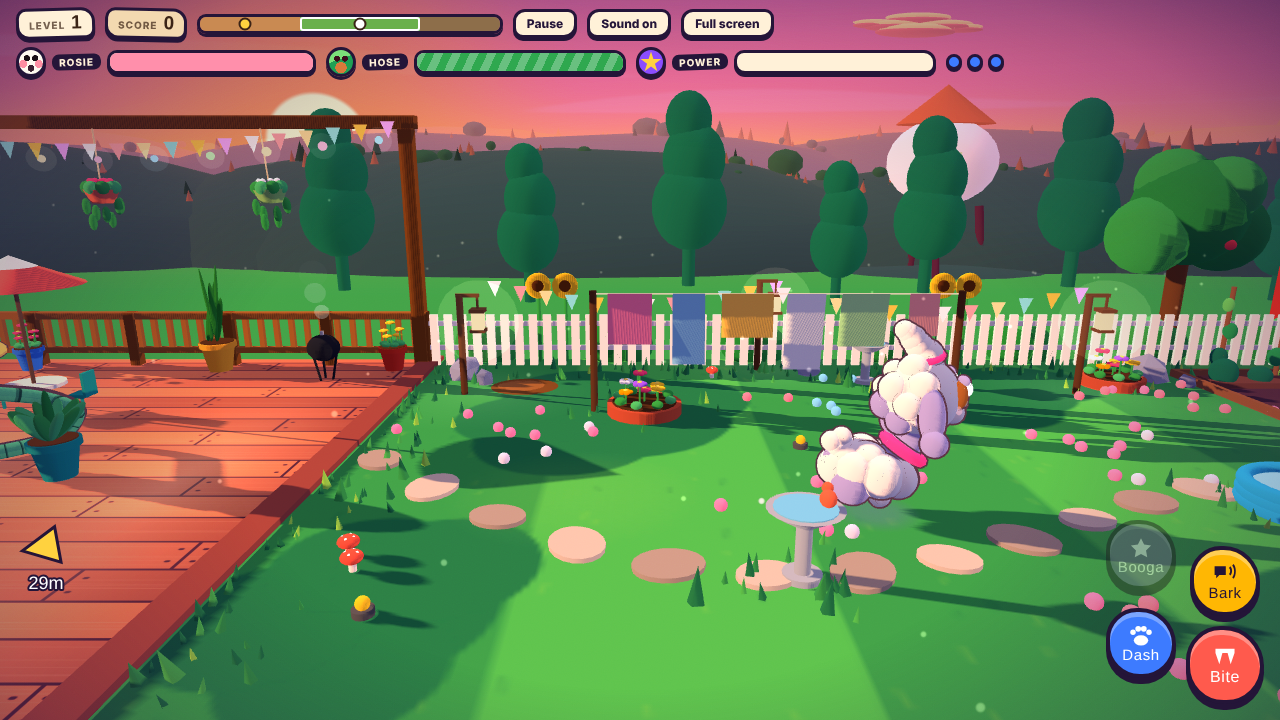
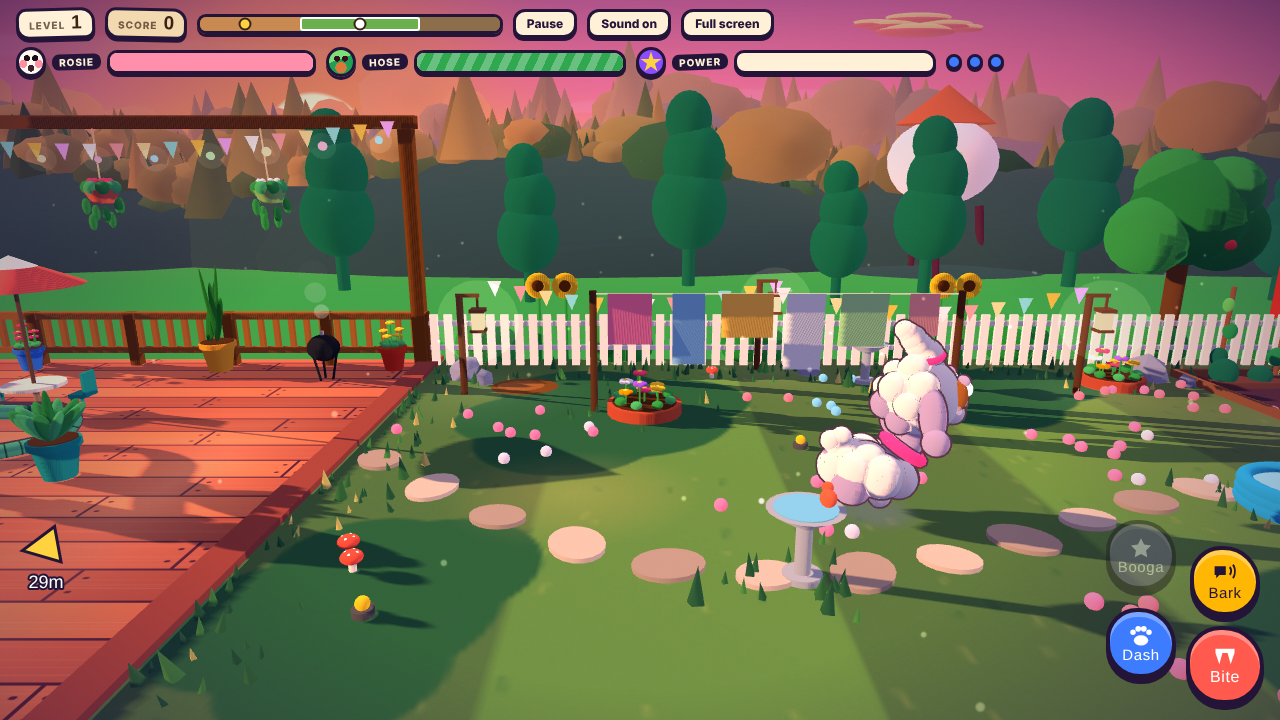
feat: sunset relight, forested ridges and Rosie on her hind legs
Builds design/art/art-direction-v3.md. Indigo to rose to amber sky with
a bigger low sun, warm key light against cool fill, softly stepped
shading from a 16-texel ramp, thinner warmer ink kept only on
characters, and an amber iris with a bounce highlight in Rosie's eyes.
She rears up on her hind legs for BOOGA TIME and drops the moment she
runs, bites, dashes or is hit.

From the user's reference photograph: the deck now takes long raking
shadows from the railing and posts with white-gold light pools cut
through deep planks. The back ridges became forested hillsides, about
1400 clustered conifer and broadleaf instances with bare slopes, uneven
crests and a warm rim where the sun catches them, in two instanced
meshes.

Warmed the lawn and Rosie's shade side after review: the doc froze the
lawn at bright mid-green, which fought the sunset and read as a flat
band, and her cold violet shade went grey under warm light.

535 draw calls in normal play, unchanged. Clouds baked to painted bands
paid for the extra trees.

Refs: design/art/art-direction-v3.md

Claude-Session: https://claude.ai/code/session_01JR8fsw3Uh5kViP8MJWMfnz

diff --git a/src/index.html b/src/index.html
@@ -1064,15 +1064,16 @@ flat(new THREE.PlaneGeometry(1320,GD),M('#ffffff',{map:ctex(512,512,1320/600,GD/
      const rr=Math.max(rx,ry),gr=g.createRadialGradient(0,0,0,0,0,rr);gr.addColorStop(0,c);gr.addColorStop(.5,'rgba(255,170,90,.34)');gr.addColorStop(1,'rgba(0,0,0,0)');
      g.save();g.globalAlpha=a;g.translate(x,y);g.scale(rx/rr,ry/rr);g.fillStyle=gr;g.beginPath();g.arc(0,0,rr,0,7);g.fill();g.restore();}});
  PT.wrapS=PT.wrapT=THREE.ClampToEdgeWrapping;
- const pl=flat(new THREE.PlaneGeometry(1320,GD),new THREE.MeshBasicMaterial({map:PT,transparent:true,opacity:.46,depthWrite:false,blending:THREE.AdditiveBlending}),340,.45,GZ);
+ const pl=flat(new THREE.PlaneGeometry(1320,GD),new THREE.MeshBasicMaterial({map:PT,transparent:true,opacity:.34,depthWrite:false,blending:THREE.AdditiveBlending}),340,.45,GZ);
  pl.receiveShadow=false;}
 /* lawn: one un-tiled painting. Mown stripes 260 wide, 7 clover patches, 20 soft sunlit dapples */
 flat(new THREE.PlaneGeometry(2400,GD),M('#ffffff',{map:ctex(512,512,1,1,g=>{const sx=512/2400,sz=512/GD;
-  for(let i=0;i<10;i++){g.fillStyle=i%2?'#55b85a':'#3f9a52';g.fillRect(i*260*sx,0,260*sx+1,512);}
-  for(let i=0;i<1400;i++){const x=r2()*512,y=r2()*512;g.strokeStyle=r2()<.5?'rgba(44,122,76,.22)':'rgba(159,220,92,.16)';g.lineWidth=1;g.beginPath();g.moveTo(x,y);g.lineTo(x+r2()*2-1,y-2-r2()*3);g.stroke();}
-  g.fillStyle='#2c7a4c';for(const [x,z,r] of [[1330,250,230],[1900,130,170],[2080,930,300],[1500,1180,210],[2700,330,190],[2850,1100,320],[1150,720,150]])
+  for(let i=0;i<10;i++){g.fillStyle=i%2?'#4e8f4b':'#3a7043';g.fillRect(i*260*sx,0,260*sx+1,512);}
+  {const wg=g.createLinearGradient(512,0,0,512);wg.addColorStop(0,'rgba(255,170,96,.30)');wg.addColorStop(.5,'rgba(255,150,90,.12)');wg.addColorStop(1,'rgba(60,40,96,.20)');g.fillStyle=wg;g.fillRect(0,0,512,512);}
+  for(let i=0;i<1400;i++){const x=r2()*512,y=r2()*512;g.strokeStyle=r2()<.5?'rgba(34,86,60,.26)':'rgba(214,206,116,.16)';g.lineWidth=1;g.beginPath();g.moveTo(x,y);g.lineTo(x+r2()*2-1,y-2-r2()*3);g.stroke();}
+  g.fillStyle='#2f5f40';for(const [x,z,r] of [[1330,250,230],[1900,130,170],[2080,930,300],[1500,1180,210],[2700,330,190],[2850,1100,320],[1150,720,150]])
     for(let k=0;k<5;k++){const a=k*1.257+r2(),q=k?r*.5:0,rr=k?r*(.45+r2()*.2):r*.7;g.beginPath();g.ellipse((x-1000+Math.cos(a)*q)*sx,(z+60+Math.sin(a)*q)*sz,rr*sx,rr*sz,0,0,7);g.fill();}
-  for(let i=0;i<20;i++){const x=r2()*512,y=r2()*512,r=14+r2()*22,gr=g.createRadialGradient(x,y,0,x,y,r);gr.addColorStop(0,'rgba(159,220,92,.12)');gr.addColorStop(.55,'rgba(159,220,92,.09)');gr.addColorStop(1,'rgba(159,220,92,0)');g.fillStyle=gr;g.fillRect(x-r,y-r,r*2,r*2);}})}),2200,0,GZ);
+  for(let i=0;i<20;i++){const x=r2()*512,y=r2()*512,r=14+r2()*22,gr=g.createRadialGradient(x,y,0,x,y,r);gr.addColorStop(0,'rgba(255,206,130,.20)');gr.addColorStop(.55,'rgba(255,190,118,.11)');gr.addColorStop(1,'rgba(255,190,118,0)');g.fillStyle=gr;g.fillRect(x-r,y-r,r*2,r*2);}})}),2200,0,GZ);
 const woodM=M('#7a4a24'),woodL=M('#9a6234'),whiteM2=M('#f7f3ea',{roughness:.7});
 box(scene,M('#8f4a42'),34,7,GD,1000,3.5,GZ);
 /* deck railing, pergola, string lights */
@@ -1111,31 +1112,38 @@ box(scene,M('#c0392b'),190,140,130,2710,70,-180);{const r=add(scene,G_K4,M('#5c3
      toward the sky. Trees are clustered with bare slopes between, and sit on the hump surface, so the
      treeline is uneven and the humps stop reading as humps. A private PRNG keeps r2() untouched. */
   let tseed=90210;const tr=()=>{tseed=(tseed*48271)%2147483647;return (tseed-1)/2147483646;};
-  const TCONE=new THREE.ConeGeometry(1,1,5),TBALL=new THREE.SphereGeometry(1,7,5);
-  for(const [z,c,y0,x0,x1,ra,rb,tc,bc,rc,nco,nbr] of [
-      [-1500,'#2e4a4e',-10,-2900,5700,900,1350,'#17332e','#26513f','#8a5a4e',300,170],
-      [-2600,'#5c5a86',-80,-3900,6700,1150,1700,'#3b4a63','#4e5a7c','#9a6a76',200,110],
-      [-4000,'#a37fae',0,-5200,8000,1300,1800,'#7f6c9e','#8f7aa8','#c08fa0',140,80]]){
+  /* ONE conifer mesh and ONE broadleaf mesh for all three ridges: two draw calls for the whole forest.
+     Per-instance colour carries both the haze gradient between layers and the warm sun rim on the
+     crests, so the depth is done with value instead of geometry. The ones() colour attribute is what
+     lets instanceColor through in r128 -- vertexColors without it would multiply by black. */
+  const ones=gg=>{gg.setAttribute('color',new THREE.BufferAttribute(new Float32Array(gg.attributes.position.count*3).fill(1),3));return gg;};
+  const TCONE=ones(new THREE.ConeGeometry(1,1,5)),TBALL=ones(new THREE.SphereGeometry(1,7,5));
+  const TCAP=900,BCAP=520,TIM=new THREE.InstancedMesh(TCONE,M('#ffffff',{vertexColors:true}),TCAP),BIM=new THREE.InstancedMesh(TBALL,M('#ffffff',{vertexColors:true}),BCAP);
+  const tcA=new THREE.Color(),tcB=new THREE.Color(),tcR=new THREE.Color('#ffae72'),tcT=new THREE.Color(),tob=new THREE.Object3D();
+  let nTree=0,nBush=0;
+  for(const [z,c,y0,x0,x1,ra,rb,tc,bc,rim,nclu,tsc] of [
+      [-1500,'#2e4a4e',-10,-2900,5700,900,1350,'#13302c','#2a5a42',.62,46,1],
+      [-2600,'#5c5a86',-80,-3900,6700,1150,1700,'#3a4a66','#55658a',.40,38,1.35],
+      [-4000,'#a37fae',0,-5200,8000,1300,1800,'#7e6c9e','#917fac',.22,30,1.75]]){
     const g=grp(scene),m=M(c),hills=[];
     for(let i=0;i<7;i++){const r=ra+r2()*(rb-ra),cx=x0+(x1-x0)*(i+.15+r2()*.7)/7,cz=z-r2()*260;sph(g,m,r,cx,y0,cz,1.15,.35,.5,false);hills.push([cx,cz,r]);}
     if(z===-1500){sph(g,m,620,2330,-130,-1290,1,.26,.7,false);hills.push([2330,-1290,620]);}
     noSh(bake(g,m));
     /* surface height of the tallest hump under (x,zt), or null where there is nothing to stand on */
     const surf=(x,zt)=>{let best=null;for(const [cx,cz,r] of hills){const u=(x-cx)/(1.15*r),v=(zt-cz)/(.5*r),q=1-u*u-v*v;if(q<=.02)continue;const h=y0+.35*r*Math.sqrt(q);if(!best||h>best[0])best=[h,.35*r];}return best;};
-    const CO=new THREE.InstancedMesh(TCONE,M(tc),nco),BR=new THREE.InstancedMesh(TBALL,M(bc),nbr),CR=new THREE.InstancedMesh(TCONE,M(rc),Math.round(nco*.34)),d=new THREE.Object3D();
-    let na=0,nb2=0,nk=0;const put=(im,i,x,yy,zz,w,hh)=>{d.position.set(x,yy,zz);d.scale.set(w,hh,w);d.rotation.set(0,tr()*3,0);d.updateMatrix();im.setMatrixAt(i,d.matrix);};
-    for(let q=0;q<30&&(na<nco||nb2<nbr);q++){
-      const cx=x0+(x1-x0)*tr(),sp=320+tr()*1500,per=5+Math.floor(tr()*16);
-      if(tr()<.15)continue;                                  /* an open, bare slope now and then */
+    tcA.set(tc);tcB.set(bc);
+    const put=(im,i,x,yy,zz,w,hh,lit)=>{tob.position.set(x,yy,zz);tob.scale.set(w,hh,w);tob.rotation.set(0,tr()*3,0);tob.updateMatrix();im.setMatrixAt(i,tob.matrix);
+      tcT.copy(tcA).lerp(tcB,.22+tr()*.78).lerp(tcR,rim*lit*lit);tcT.convertSRGBToLinear();im.setColorAt(i,tcT);};
+    for(let q=0;q<nclu;q++){
+      const cx=x0+(x1-x0)*tr(),sp=300+tr()*1500,per=8+Math.floor(tr()*22);
+      if(tr()<.14)continue;                                  /* an open, bare slope now and then */
       for(let j=0;j<per;j++){
-        const x=cx+(tr()+tr()-1)*sp,zt=z+(tr()-.55)*260,sv=surf(x,zt);if(!sv)continue;
-        const drop=tr()*tr()*sv[1]*.9,yy=sv[0]-drop,rim=1-drop/(sv[1]*.55),tall=tr()<.09?1.8:1;
-        if(tr()<.34){if(nb2>=nbr)continue;const hh=(26+tr()*30)*tall;put(BR,nb2++,x,yy+hh*.46,zt,hh*(.5+tr()*.3),hh*.5);}
-        else{const hh=(34+tr()*46)*tall,w=hh*(.24+tr()*.14);
-          if(rim>.5&&nk<CR.count)put(CR,nk++,x,yy+hh*.5,zt,w,hh);
-          else if(na<nco)put(CO,na++,x,yy+hh*.5,zt,w,hh);}}}
-    CO.count=na;BR.count=nb2;CR.count=nk;
-    for(const im of [CO,BR,CR]){im.castShadow=false;im.receiveShadow=false;im.frustumCulled=false;if(im.count>0)scene.add(im);}}
+        const x=cx+(tr()+tr()-1)*sp,zt=z+(tr()-.6)*300,sv=surf(x,zt);if(!sv)continue;
+        const drop=tr()*tr()*sv[1]*.95,yy=sv[0]-drop,lit=Math.max(0,1-drop/(sv[1]*.5)),tall=tr()<.1?1.75:1;
+        if(tr()<.32){if(nBush>=BCAP)continue;const hh=(70+tr()*95)*tall*tsc;put(BIM,nBush++,x,yy+hh*.46,zt,hh*(.52+tr()*.34),hh*.5,lit);}
+        else{if(nTree>=TCAP)continue;const hh=(85+tr()*115)*tall*tsc,w=hh*(.26+tr()*.14);put(TIM,nTree++,x,yy+hh*.5,zt,w,hh,lit);}}}}
+  TIM.count=nTree;BIM.count=nBush;
+  for(const im of [TIM,BIM]){im.castShadow=false;im.receiveShadow=false;im.frustumCulled=false;if(im.instanceColor)im.instanceColor.needsUpdate=true;scene.add(im);}
   /* landmark: water tower on a knoll of the near ridge, right of centre */
   const tw=grp(scene,2330,-60,-1290),legM=M('#4a2238'),lg=grp(tw);
   for(const [x,z] of [[-95,-95],[95,-95],[-95,95],[95,95]]){const l=cyl(lg,legM,13,270,x*1.12,130,z*1.12,false);l.rotation.z=x>0?.085:-.085;l.rotation.x=z>0?-.085:.085;}
@@ -1213,7 +1221,7 @@ const boneM=M('#fffaf0',{roughness:.4,emissive:'#554422'}),treat3=[0,1,2].map(()
 /* Rosie */
 const WHITE=new THREE.Color('#ffffff'),WETC=new THREE.Color('#b9dcf5');
 /* wardrobe 2.2: FURC/FURS are captured by the wet lerp in render3D, so wFur() rebuilds them -- without this Rosie snaps back to cream the moment she gets wet */
-let FURC=new THREE.Color('#fffaf0').convertSRGBToLinear(),FWET=new THREE.Color('#b9dcf5').convertSRGBToLinear(),FURS=new THREE.Color('#b7b2e8').convertSRGBToLinear();
+let FURC=new THREE.Color('#fffaf0').convertSRGBToLinear(),FWET=new THREE.Color('#b9dcf5').convertSRGBToLinear(),FURS=new THREE.Color('#b9a3cf').convertSRGBToLinear();
 const furM=M('#fffaf0',{roughness:.92}),furS=M('#b7b2e8',{roughness:.92}),collarM=M('#ff4f9a'),peachM=M('#f6ddd0',{roughness:.8}),noseM=M('#3a2030',{roughness:.25}),eyeM=M('#2a1a22',{roughness:.05}),irisM=M('#9c6336'),glintM=new THREE.MeshBasicMaterial({color:'#ffffff'}),glint3M=new THREE.MeshBasicMaterial({color:'#ffd9b0',transparent:true,opacity:.35});
 /* art v2 item 4: big round head (about 60% of her), few fat curls, wide readable eyes. Curl placement is a fixed spiral, not r2(). */
 {for(let i=0;i<24;i++){r2();r2();r2();}for(let i=0;i<46;i++){const a=r2()*Math.PI*2,b=(r2()-.3)*Math.PI*.9;if(Math.cos(a)*Math.cos(b)>.42&&Math.sin(b)<.45)continue;r2();}for(let i=0;i<14;i++){r2();r2();r2();}} /* spend the draft's r2() draws so the seeded scenery built after Rosie stays where it was */
@@ -1321,7 +1329,7 @@ const wPal=s=>s.small?ACCW:ACCW.filter(a=>!a.small);
 const Wdef=()=>{const o={v:1,fur:'marshmallow'};WSLOTS.forEach(s=>{if(!s.fur)o[s.k]={id:s.def,c:s.dc};});return o;};
 let look=Wdef(),wFellBack=false,wTab='fur',wT=null;
 const wGroups={};
-function wFur(hex){const sh=mix(hex,'#6f67c6',.54); /* art v3: deeper, cooler shade side -- what reads as painted form once the ink is thin */
+function wFur(hex){const sh=mix(hex,'#7d5fa8',.50); /* art v3: deeper, cooler shade side -- what reads as painted form once the ink is thin */
   FURC=new THREE.Color(hex).convertSRGBToLinear();FURS=new THREE.Color(sh).convertSRGBToLinear();
   furM.color.copy(FURC);furS.color.copy(FURS);}
 function wLoad(){const raw=store.get(WKEY);if(!raw)return;let o=null;
@@ -1568,7 +1576,7 @@ function updCritters(dt){
 /* yard dressing */
 {const d=new THREE.Object3D(),col=new THREE.Color();
   // grass tufts
-  const tg=new THREE.ConeGeometry(1,1,4),tu=new THREE.InstancedMesh(tg,M('#ffffff'),650),gc=['#3f9a52','#2c7a4c','#55b85a','#3f9a52','#2c7a4c','#9fdc5c'],props=OBST.filter(o=>o.x>1060);
+  const tg=new THREE.ConeGeometry(1,1,4),tu=new THREE.InstancedMesh(tg,M('#ffffff'),650),gc=['#3a7043','#2f5f40','#4e8f4b','#3a7043','#2f5f40','#cbc271'],props=OBST.filter(o=>o.x>1060);
   /* clustered at the fence, the deck edge, prop bases and the front verge; the middle of the lawn stays open */
   for(let i=0;i<650;i++){let x,z;const m=i%10;
     if(m<3){x=1030+r2()*1960;z=r2()*r2()*150;}
